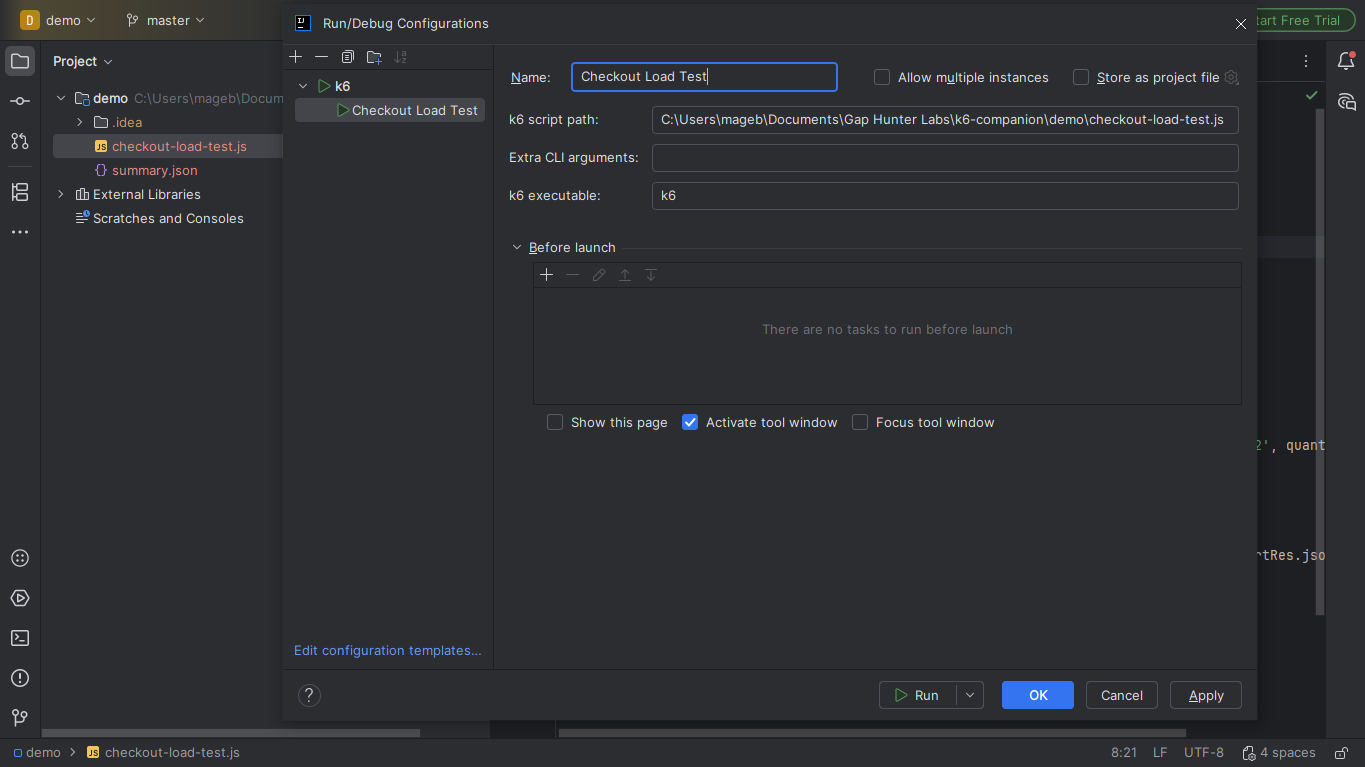
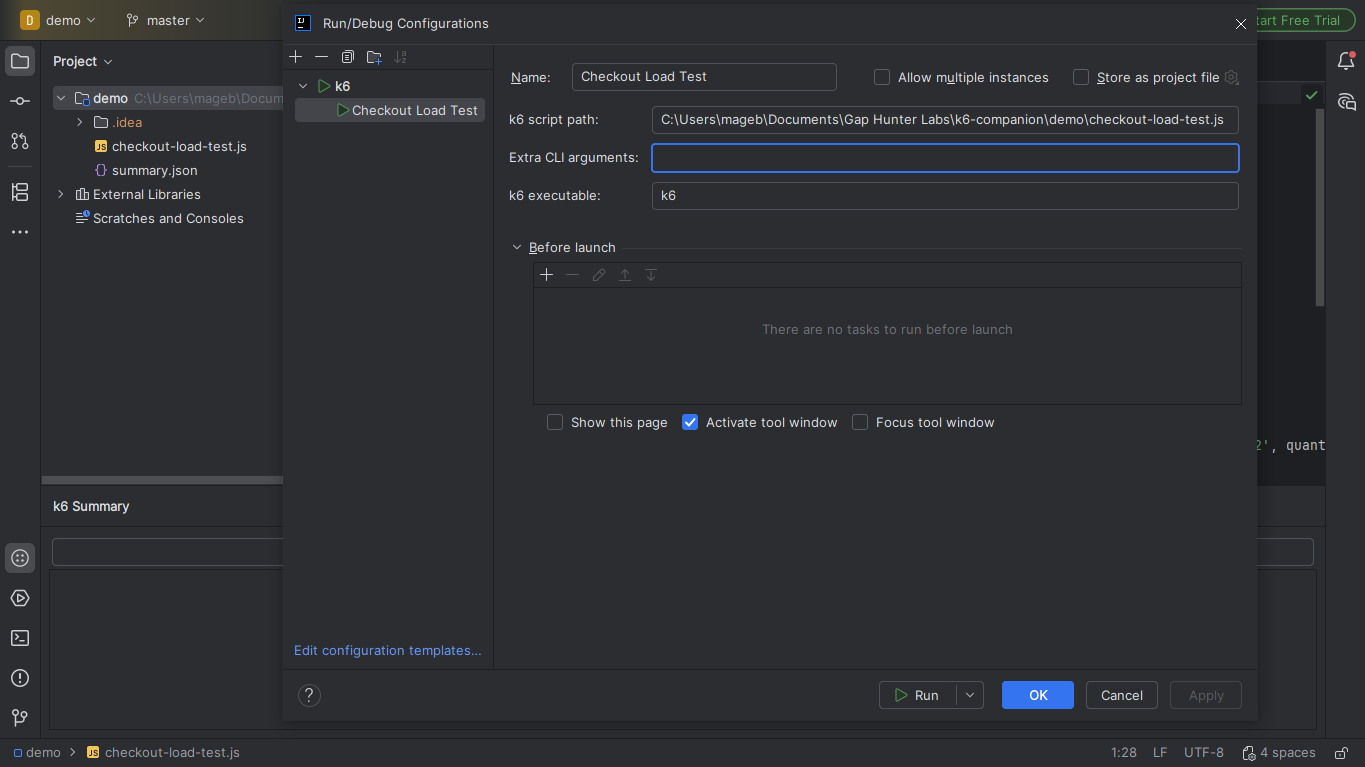
Fix tool window content rendering flush against the border -- 0.1.1
Same fix as firestore-companion 0.2.1/gitlab-ci-companion 0.1.3: the
Open button and output area had no margin against the tool window's
own edge. Fixed with an 8px empty border on the root panel.
Screenshots retaken to match.

15/15 tests green. Found finished but never committed -- committing
now to close that gap.

diff --git a/src/main/kotlin/dev/gaphunter/k6companion/toolwindow/K6SummaryToolWindowFactory.kt b/src/main/kotlin/dev/gaphunter/k6companion/toolwindow/K6SummaryToolWindowFactory.kt
@@ -7,6 +7,7 @@ import com.intellij.openapi.project.Project
 import com.intellij.openapi.wm.ToolWindow
 import com.intellij.openapi.wm.ToolWindowFactory
 import com.intellij.ui.content.ContentFactory
+import com.intellij.util.ui.JBUI
 import dev.gaphunter.k6companion.summary.K6SummaryJsonParseException
 import dev.gaphunter.k6companion.summary.K6SummaryReader
 import dev.gaphunter.k6companion.summary.MinimalJsonParser
@@ -37,6 +38,7 @@ private class K6SummaryPanel(private val project: Project) : JPanel(BorderLayout
     private val openButton = JButton("Open k6 --summary-export JSON...")
 
     init {
+        border = JBUI.Borders.empty(8)
         openButton.addActionListener { openAndParse() }
         add(openButton, BorderLayout.NORTH)
         add(JScrollPane(outputArea), BorderLayout.CENTER)

diff --git a/CHANGELOG.md b/CHANGELOG.md
@@ -4,6 +4,15 @@
 
 ## [Unreleased]
 
+## [0.1.1]
+
+### Fixed
+
+- Tool window content ("Open k6 --summary-export JSON..." button and
+  output area) was rendering flush against the tool window's own
+  border, with no margin — fixed with an 8px empty border on the root
+  panel.
+
 ## [0.1.0]
 
 ### Added
@@ -14,5 +23,6 @@
 - "k6 Summary" tool window: parses a local `--summary-export` JSON file
   and lists each threshold's pass/fail result.
 
-[Unreleased]: https://github.com/GapHunterLabs/k6-companion/compare/0.1.0...HEAD
+[Unreleased]: https://github.com/GapHunterLabs/k6-companion/compare/0.1.1...HEAD
+[0.1.1]: https://github.com/GapHunterLabs/k6-companion/compare/0.1.0...0.1.1
 [0.1.0]: https://github.com/GapHunterLabs/k6-companion/commits/0.1.0
